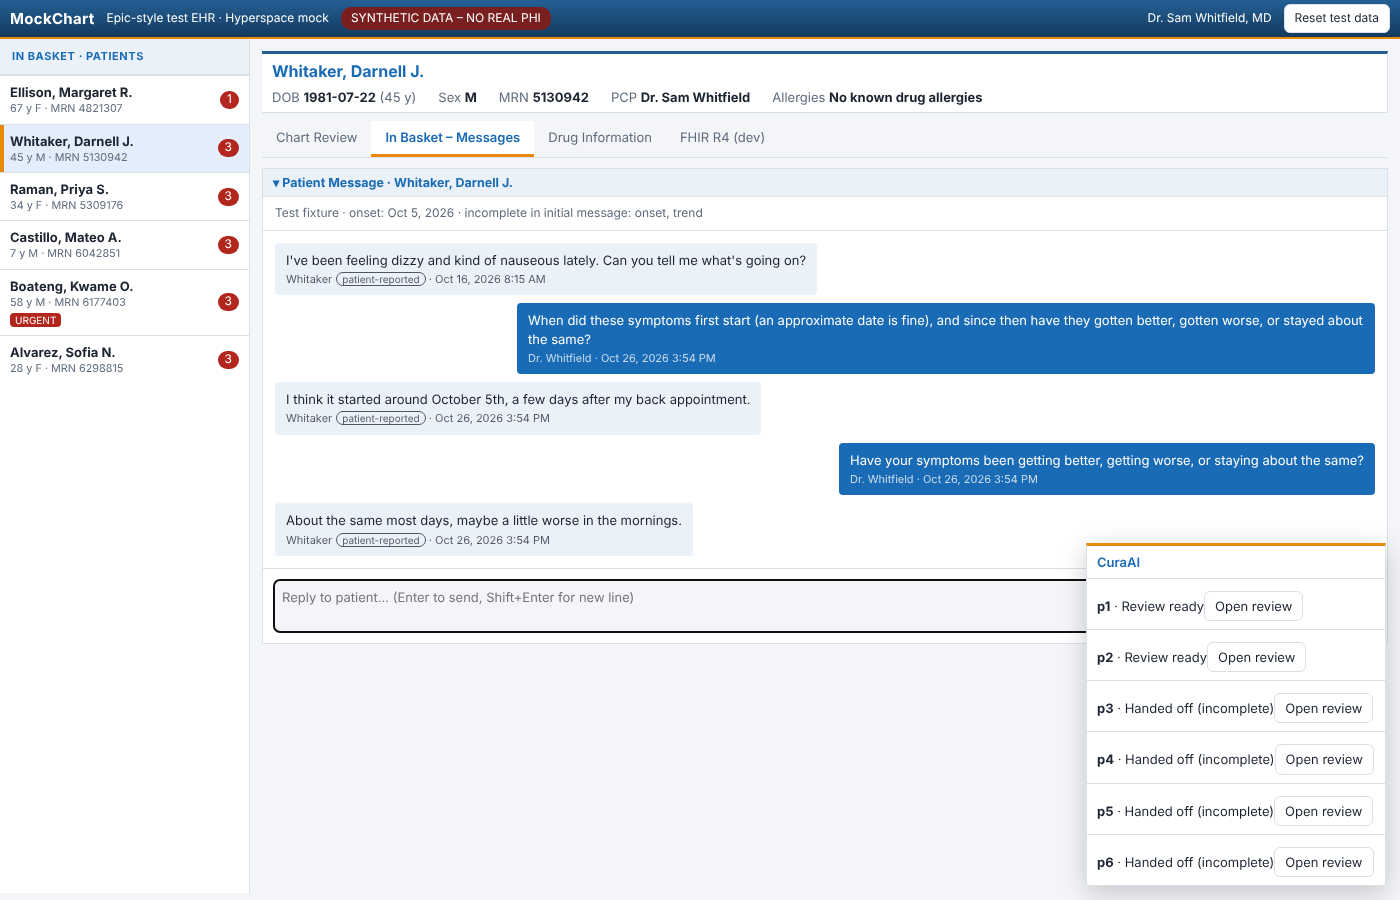
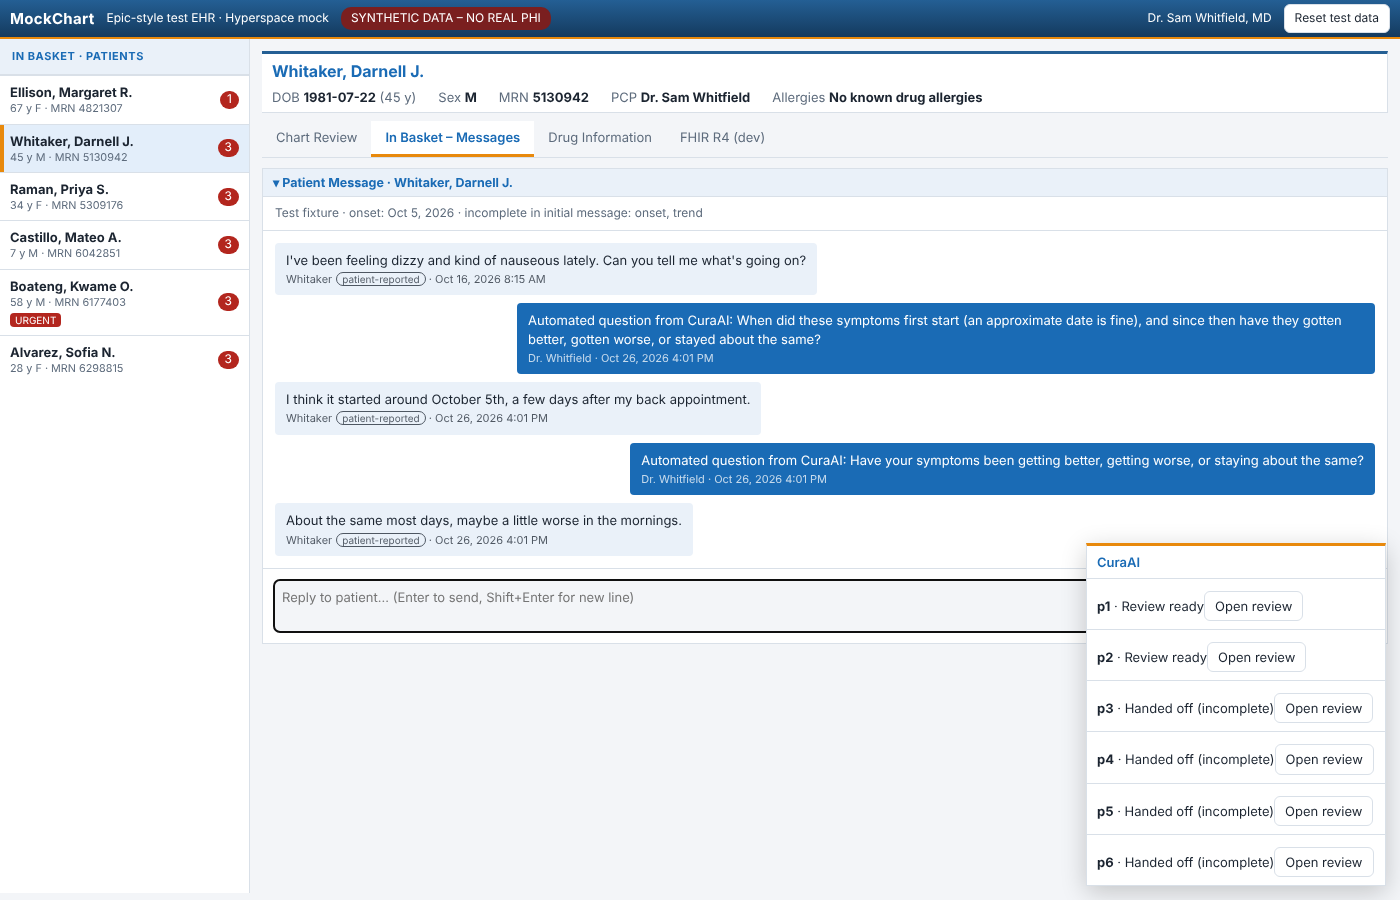
Label follow-ups as automated; double the model-call cap to 12
Team decisions, 2026-10-26:
- Every follow-up carries a required sender label, AUTOMATED_SENDER_LABEL
  ("Automated question from CuraAI"), set by RequestFollowUp from the domain.
  OutboundFollowUp refuses an empty label, so no adapter can drop it.
  MockChart can only post as the doctor, so MockEpicMessagingAdapter puts the
  label in front of the unchanged catalog text (OutboxItem.display_text).
- CaseLimits.max_model_calls 6 -> 12. A two-follow-up case used all 6 in the
  MockChart run and lost medication flagging; it now uses 7 and keeps it.
  Other caps unchanged (ADR-011 proposals).
- Re-ran the real page + bridge + backend in a browser; screenshots updated.
- README and CuraAI/00 CuraAI - Project Overview.md updated.

Claude-Session: https://claude.ai/code/session_01BU95Jknr3LcN1BfXC85BxZ

diff --git a/src/curaai/adapters/web/static/curaai-bridge.js b/src/curaai/adapters/web/static/curaai-bridge.js
@@ -51,7 +51,7 @@
       if (res.ok) {
         for (const f of (await res.json()).follow_ups) {
           setStatus(f.patient_id, { outcome: "follow_up_sent" });
-          api.send(f.patient_id, f.text);          // catalog text, exactly as the backend sent it
+          api.send(f.patient_id, f.display_text);  // "Automated question from CuraAI: <catalog text>", as the backend sent it
         }
       }
     } catch (e) { /* backend restarting; try again next tick */ }

diff --git a/src/curaai/adapters/ehr/mock_epic_messaging.py b/src/curaai/adapters/ehr/mock_epic_messaging.py
@@ -4,25 +4,44 @@ The backend can't write into the browser page directly, so follow-up questions
 go into an InMemoryOutbox. The page bridge polls the outbox and posts each
 question into the patient's MockChart thread with window.MockEpic.send().
 Only catalog question text ever goes in (ADR-009); the DTO has no free-text field.
+
+MockChart can only post messages as the doctor, so the required automated-sender label
+is put in front of the question (team decision, 2026-10-26). A real Epic adapter should
+use the EHR's own sender/automation field instead.
 """
 
 import threading
 from collections import defaultdict
+from dataclasses import dataclass
 
 from curaai.application.dto.messaging import OutboundFollowUp
 from curaai.application.ports.messaging_port import PatientMessagingPort
 
 
+def mockchart_display_text(follow_up: OutboundFollowUp) -> str:
+    """Pure: how a follow-up appears in the MockChart thread."""
+    return f"{follow_up.sender_label}: {follow_up.text}"
+
+
+@dataclass(frozen=True)
+class OutboxItem:
+    patient_id: str
+    question_id: str
+    text: str            # the catalog text, unchanged
+    sender_label: str
+    display_text: str    # what the bridge posts into the page
+
+
 class InMemoryOutbox:
     def __init__(self) -> None:
-        self._pending: dict[str, list[OutboundFollowUp]] = defaultdict(list)
+        self._pending: dict[str, list[OutboxItem]] = defaultdict(list)
         self._lock = threading.Lock()
 
-    def add(self, follow_up: OutboundFollowUp) -> None:
+    def add(self, item: OutboxItem) -> None:
         with self._lock:
-            self._pending[follow_up.patient_id].append(follow_up)
+            self._pending[item.patient_id].append(item)
 
-    def drain(self, patient_id: str | None = None) -> tuple[OutboundFollowUp, ...]:
+    def drain(self, patient_id: str | None = None) -> tuple[OutboxItem, ...]:
         """Return and remove pending follow-ups, for one patient or for all."""
         with self._lock:
             ids = [patient_id] if patient_id is not None else list(self._pending)
@@ -35,4 +54,5 @@ class MockEpicMessagingAdapter(PatientMessagingPort):
         self._outbox = outbox
 
     def send_follow_up(self, follow_up: OutboundFollowUp) -> None:
-        self._outbox.add(follow_up)
+        self._outbox.add(OutboxItem(follow_up.patient_id, follow_up.question_id, follow_up.text,
+                                    follow_up.sender_label, mockchart_display_text(follow_up)))

diff --git a/src/curaai/adapters/web/controller.py b/src/curaai/adapters/web/controller.py
@@ -18,7 +18,7 @@ from dataclasses import dataclass, field
 from datetime import datetime
 from typing import Any, Protocol
 
-from curaai.application.dto.messaging import InboundMessage, OutboundFollowUp
+from curaai.application.dto.messaging import InboundMessage
 from curaai.application.errors import ExternalSourceUnavailable, RejectedInboundMessage
 from curaai.application.use_cases import PipelineTrigger
 
@@ -31,8 +31,16 @@ class BundleSink(Protocol):
     def put(self, patient_id: str, bundle: Mapping) -> None: ...
 
 
+class OutboxEntry(Protocol):
+    patient_id: str
+    question_id: str
+    text: str
+    sender_label: str
+    display_text: str
+
+
 class Outbox(Protocol):
-    def drain(self, patient_id: str | None = None) -> tuple[OutboundFollowUp, ...]: ...
+    def drain(self, patient_id: str | None = None) -> tuple[OutboxEntry, ...]: ...
 
 
 class ReviewStore(Protocol):
@@ -83,7 +91,8 @@ class WebController:
     def get_outbox(self, patient_id: str | None) -> WebResponse:
         items = self.outbox.drain(patient_id)
         return WebResponse(200, {"follow_ups": [
-            {"patient_id": f.patient_id, "question_id": f.question_id, "text": f.text} for f in items]})
+            {"patient_id": f.patient_id, "question_id": f.question_id, "text": f.text,
+             "sender_label": f.sender_label, "display_text": f.display_text} for f in items]})
 
     # ---- GET /api/reviews/{case_id}, /reviews/{case_id}, /api/patients/{id}/review --------------
     def get_review_json(self, case_id: str) -> WebResponse:

diff --git a/src/curaai/application/use_cases/request_follow_up.py b/src/curaai/application/use_cases/request_follow_up.py
@@ -15,7 +15,7 @@ from curaai.application.ports.model_ports import SelectFollowUpPort
 from curaai.application.use_cases._audit import Auditor
 from curaai.application.validation.model_output_validator import ModelOutputValidator
 from curaai.domain.conversation import Conversation
-from curaai.domain.follow_up_catalog import FollowUpCatalog, FollowUpQuestion
+from curaai.domain.follow_up_catalog import AUTOMATED_SENDER_LABEL, FollowUpCatalog, FollowUpQuestion
 from curaai.domain.values import MissingField
 
 ACTOR = "request_follow_up"
@@ -58,7 +58,8 @@ class RequestFollowUp:
         if question is None:
             question = self._catalog.best_for(missing)
 
-        self._messaging.send_follow_up(OutboundFollowUp(conversation.patient_id, question.id, question.text))
+        self._messaging.send_follow_up(OutboundFollowUp(conversation.patient_id, question.id,
+                                                        question.text, AUTOMATED_SENDER_LABEL))
         conversation = conversation.record_follow_up(question.id, self._clock.now())
         self._audit(ACTOR, "follow_up_sent", case, question_id=question.id, chosen_by=chosen_by,
                     missing=",".join(sorted(m.value for m in missing)),

diff --git a/src/curaai/domain/case_budget.py b/src/curaai/domain/case_budget.py
@@ -1,6 +1,8 @@
 """CaseLimits and CaseBudget: per-case caps from ADR-011 (Governance ADR 5).
 
-Proposed caps, to be tuned after the first evaluation run. When a cap is hit
+Model calls doubled from the proposed 6 to 12 (team decision, 2026-10-26): a case with two
+follow-ups used all 6 in the MockChart run and lost medication flagging. Other caps are
+still the ADR-011 proposals, to be tuned after the first evaluation run. When a cap is hit
 the AI stops for that case; the fixed chart pull still runs.
 Dollar cost is measured by the Ring 3 CostGuard, which reads max_cost_usd.
 """
@@ -13,7 +15,7 @@ from curaai.domain.errors import BudgetExceeded
 
 @dataclass(frozen=True)
 class CaseLimits:
-    max_model_calls: int = 6
+    max_model_calls: int = 12
     max_lookups: int = 5
     max_follow_ups: int = 2
     max_cost_usd: Decimal = Decimal("0.25")

diff --git a/tests/unit/app/test_main_and_web.py b/tests/unit/app/test_main_and_web.py
@@ -141,6 +141,9 @@ def test_whitaker_follow_up_goes_out_through_the_outbox_and_the_reply_completes_
 
         (question,) = k.controller.get_outbox(None).body["follow_ups"]
         assert question["patient_id"] == "p2" and question["question_id"] == "ask_onset"
+        assert question["sender_label"] == "Automated question from CuraAI"
+        assert question["display_text"] == f"Automated question from CuraAI: {question['text']}"
+        assert question["text"] == "When did these symptoms first start? An approximate date is fine."
         assert k.controller.get_outbox(None).body["follow_ups"] == []                # drained
 
         reply = k.controller.post_message(body("p2", text=PATIENTS["p2"]["reply"], message_id="p2-2",

diff --git a/tests/unit/application/test_ports.py b/tests/unit/application/test_ports.py
@@ -32,6 +32,9 @@ def test_ehr_and_drug_ports_have_no_write_shaped_methods():
         assert not [n for n in names if any(w in n for w in write_words)], port.__name__
 
 
-def test_outbound_follow_up_carries_a_catalog_question_id():
+def test_outbound_follow_up_carries_a_catalog_question_id_and_a_required_automated_label():
     fields = set(OutboundFollowUp.__dataclass_fields__)
-    assert fields == {"patient_id", "question_id", "text"}
+    assert fields == {"patient_id", "question_id", "text", "sender_label"}
+    import pytest
+    with pytest.raises(ValueError):
+        OutboundFollowUp("p1", "ask_onset", "When did these symptoms first start?", "  ")

diff --git a/tests/unit/domain/test_rules.py b/tests/unit/domain/test_rules.py
@@ -70,9 +70,10 @@ def test_timeout_requires_timezone_aware_times():
 
 
 # ---- CaseBudget (ADR-011) -------------------------------------------------------------
-def test_default_caps_match_adr_011():
+def test_default_caps_match_adr_011_with_model_calls_doubled():
+    # team decision 2026-10-26: model calls 6 -> 12; other caps are the ADR-011 proposals
     limits = CaseLimits()
-    assert (limits.max_model_calls, limits.max_lookups, limits.max_follow_ups) == (6, 5, 2)
+    assert (limits.max_model_calls, limits.max_lookups, limits.max_follow_ups) == (12, 5, 2)
 
 
 def test_budget_trips_at_the_cap_and_is_immutable():

diff --git a/tests/unit/application/test_pipeline.py b/tests/unit/application/test_pipeline.py
@@ -65,6 +65,7 @@ def test_missing_details_trigger_one_catalog_follow_up_then_the_reply_completes_
     assert first.outcome is PipelineOutcome.FOLLOW_UP_SENT
     (question,) = h.messaging.sent
     assert question.text == DEFAULT_FOLLOW_UP_CATALOG.get(question.question_id).text  # catalog text only
+    assert question.sender_label == "Automated question from CuraAI"                  # always labeled
     assert h.review.presented == [] and h.ehr.queries == []                          # no chart pull yet
 
     h.clock.advance(hours=2)

diff --git a/src/curaai/domain/follow_up_catalog.py b/src/curaai/domain/follow_up_catalog.py
@@ -54,6 +54,10 @@ class FollowUpCatalog:
         return sorted(candidates, key=lambda q: (-len(q.asks_for), q.id))[0]
 
 
+# Team decision (2026-10-26): every follow-up is labeled as automated, so a patient never
+# mistakes a CuraAI question for a message written by their doctor. EHR adapters must show it.
+AUTOMATED_SENDER_LABEL = "Automated question from CuraAI"
+
 # DRAFT, pending clinician sign-off (ADR-009).
 DEFAULT_FOLLOW_UP_CATALOG = FollowUpCatalog((
     FollowUpQuestion(

diff --git a/src/curaai/application/dto/messaging.py b/src/curaai/application/dto/messaging.py
@@ -18,3 +18,8 @@ class OutboundFollowUp:
     patient_id: str
     question_id: str
     text: str                   # always copied from the fixed FollowUpCatalog, never model text
+    sender_label: str           # "Automated question from CuraAI"; adapters must display it
+
+    def __post_init__(self) -> None:
+        if not self.sender_label.strip():
+            raise ValueError("an automated follow-up must carry its sender label")

diff --git a/CuraAI/00 CuraAI - Project Overview.md b/CuraAI/00 CuraAI - Project Overview.md
@@ -60,7 +60,7 @@ Python 3.12 · FastAPI + Pydantic (outer rings only) · FHIR R4 · ports-and-ada
 - Complete = **onset + trend** present
 - Lookback = **onset − 21 days through today**
 - Follow-up timeout = **24 hours**
-- Caps per case: **6 model calls, 5 lookups, 2 follow-ups, $0.25**
+- Caps per case: **12 model calls** (doubled from 6, team decision 2026-10-26), **5 lookups, 2 follow-ups, $0.25**
 - Every chart/drug row **must have a source_ref**
 - Patient words are always labeled **patient-reported**
 - In-person verification banner is **always on**
@@ -86,7 +86,9 @@ Python 3.12 · FastAPI + Pydantic (outer rings only) · FHIR R4 · ports-and-ada
 - **CostGuard** ($0.25/case + daily budget) lives in `adapters/model` (adapters can't import each other). Tripping on a spike of failed validations is deferred until the eval run sets a threshold.
 - **Metrics are computed from the audit log** (`case_metrics`), so they always match what auditors see.
 - **Web layer**: `WebController` makes every HTTP decision with no framework; FastAPI routes each make one call. Backend serves MockChart at `/mockchart` with a bridge script added (team's HTML never edited).
-- Follow-up questions reach MockChart through an **outbox** the bridge polls; they show as messages from Dr. Whitfield (mock only has a doctor-send function).
+- Follow-up questions reach MockChart through an **outbox** the bridge polls.
+- **Every follow-up is labeled "Automated question from CuraAI"** (decision 2026-10-26). The label is required on every outbound question and set by the core, so no adapter can drop it. In MockChart it goes in front of the unchanged catalog text; real Epic should use its own sender/automation field.
+- **Model-call cap doubled 6 → 12** (decision 2026-10-26): Whitaker's 2-follow-up case now uses 7 calls and keeps medication flagging. Record as an amendment to ADR-011.
 - **`CURAAI_MODEL_BACKEND=none`** runs the whole demo with no AWS account (fixed chart pull, no AI).
 - Trend question reworded to *"Have your symptoms been getting better, getting worse, or staying about the same?"* (old "Since they started…" read like an onset question).
 - Re-captured MockChart data after the team added **amlodipine (stopped Aug 18)** + an Aug 18 visit to Ellison; the parity test caught it.
@@ -95,8 +97,6 @@ Python 3.12 · FastAPI + Pydantic (outer rings only) · FHIR R4 · ports-and-ada
 1. **Urgent symptoms**: nothing fast-tracks chest pain (MockChart p5). Add a red-flag rule?
 2. Symptom + follow-up **catalogs are drafts**; they need clinician sign-off (ADR-009).
 3. A message arriving mid-processing opens a new case. OK?
-4. **Model-call cap of 6 is tight**: in the live MockChart run, Whitaker's 2-follow-up case used all 6, so medication flagging was skipped. Raise to 8, or don't count question picks?
-5. Follow-up questions show as from **Dr. Whitfield** in MockChart. Label them as automated CuraAI questions in real Epic?
 
 ## How to run
 **Demo (no cloud account):** `pip install -e ".[web]"`, copy `.env.example` to `.env`, run `python -m curaai.app.main`, open http://127.0.0.1:8000/mockchart. Use the CuraAI panel (bottom right) → **Open review**.
@@ -119,7 +119,9 @@ Record a real openFDA response (needs internet): `python tests/fixtures/openfda/
 - [ ] Review + merge PR #6 → #7 → #8 (run real `pytest` + `lint-imports` first)
 - [x] FastAPI routes + `app/main.py` + MockChart bridge (PR #8)
 - [ ] Run the demo on a teammate's machine: `python -m curaai.app.main` → /mockchart
-- [ ] Decide the model-call cap (open question 4)
+- [x] Model-call cap decided: doubled to 12
+- [x] Follow-ups labeled as automated
+- [ ] Write the ADR-011 amendment (cap 6 → 12) and an ADR note for the automated label
 - [x] EHR adapter: FHIR mapper + `MockEpicAdapter` (PR #2)
 - [x] Drug DB adapters: `MockDrugAdapter`, `OpenFdaAdapter` (PR #3)
 - [ ] Record one real openFDA response and compare with the synthetic fixture
@@ -137,3 +139,4 @@ Record a real openFDA response (needs internet): `python tests/fixtures/openfda/
 - **2026-10-26 (later)**: PR #5 merged to `main`. Pushed PR #6: `JsonlAuditLog` (append-only, fsync'd, no patient text) and `InMemoryConversationStore` (thread-safe), with contract tests that run the same checks on the fakes and the real adapters. 125 tests passing.
 - **2026-10-26 (later)**: Pushed PR #7 (model side): prompts + parsers for the 4 model ports, in-process `ModelGateway` (redaction, pricing, audit), `BedrockConverseTransport`, `CostGuard`, logging decorators, `case_metrics`. Fixed a redaction bug (an MRN at the end of a sentence slipped through). Full pipeline runs through the real model stack with only the vendor faked. 152 tests passing.
 - **2026-10-26 (later)**: Pushed PR #8: framework-free `WebController`, FastAPI routes, `app/main.py` (`Config.from_env`, `build_container`), MockChart bridge + outbox, `none` model mode. Re-captured MockChart data (team added amlodipine). Ran the real page + bridge + backend in a browser: Whitaker got 2 catalog follow-ups, the simulated patient answered, and the review opened inside MockChart. **All four rings are built.** 174 tests passing.
+- **2026-10-26 (later)**: Team decisions applied to PR #8: follow-ups labeled "Automated question from CuraAI" (required, set by the core) and the model-call cap doubled to 12. Browser re-check: label shows in MockChart, the simulated patient still answers correctly, and Whitaker's case uses 7 of 12 calls and keeps the sertraline flag. 174 tests passing.
